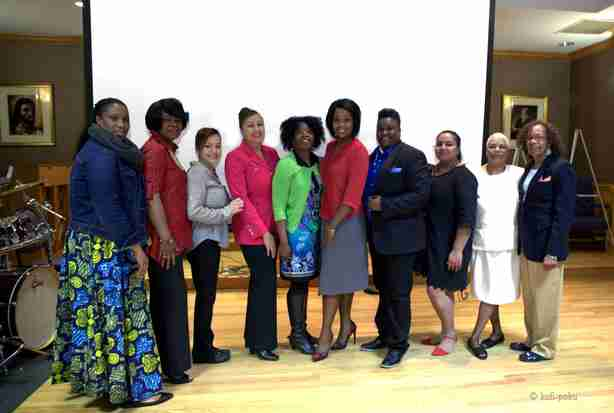
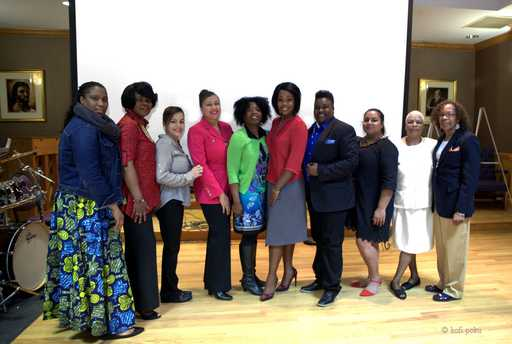
added source tags with large and small resolutions for picutre upload, organized file structure for project

diff --git a/src/public/index.html b/src/public/index.html
@@ -9,7 +9,7 @@
   <!-- FONT -->
   <link href="https://fonts.googleapis.com/css?family=Lato|Raleway" rel="stylesheet">
   <!-- MAIN STYLE -->
-  <link rel="stylesheet" href="css/style.css" >
+  <link rel="stylesheet" href="./../../css/style.css" >
   <!-- DEVICON -->
   <link rel="stylesheet" href="https://cdn.rawgit.com/konpa/devicon/df6431e323547add1b4cf45992913f15286456d3/devicon.min.css">
   <!-- FONT AWESOME/ICONS -->
@@ -27,7 +27,7 @@
    <div class="brandlogo">
     <!-- <img src="images/logo.png" alt="Women of color logo"> -->
       <h1 id="compName">Massachusetts Women of Color Coalition</h1>
-      <img src="images/mawocc.jpeg" alt="Women of color logo">
+      <img src="./../../images/mawocc.jpeg" alt="Women of color logo">
    </div>
 
   </header>
@@ -50,7 +50,9 @@
               <picture>
               <!-- <source media="(max-width: 599px)" srcset="images_src/me-small_small.jpg">
               <source media="(min-width: 600px)" srcset="images_src/me-large_large.jpg"> -->
-              <img src="images/WOC43.jpeg" alt="Women of Color" class="img-responsive" style="width: 100%;height: 100%">
+              <source srcset="./../../images_src/WOC43-small_small.jpeg" media="(max-width: 480px)" style="width: 100%;height: 100%">
+              <source media="(min-width: 481px and max-width:1200px)" srcset="./../../images_src/WOC43-large_large.jpeg>">
+              <img src="./../../images/WOC43.jpeg" alt="Women of Color" class="img-responsive" style="width: 100%;height: 100%">
             </picture>
             <!-- <img src="http://via.placeholder.com/1000x600" style="width: 100%;height: 100%"> -->
           </div>
@@ -59,7 +61,9 @@
               <picture>
               <!-- <source media="(max-width: 599px)" srcset="images_src/me-small_small.jpg">
               <source media="(min-width: 600px)" srcset="images_src/me-large_large.jpg"> -->
-              <img src="images/WOC37.jpeg" alt="Women of Color" class="img-responsive" style="width: 100%;height: 100%">
+              <source srcset="./../../images_src/WOC37-small_small.jpeg" media="(max-width: 480px)">
+              <source media="(min-width: 481px and max-width:1200px)" srcset="./../../images_src/WOC37-large_large.jpeg>">
+              <img src="./../../images/WOC37.jpeg" alt="Women of Color" class="img-responsive" style="width: 100%;height: 100%">
             </picture>
             <!-- <img src="http://via.placeholder.com/1000x600" style="width: 100%;height: 100%"> -->
           </div>
@@ -68,7 +72,9 @@
               <picture>
               <!-- <source media="(max-width: 599px)" srcset="images_src/me-small_small.jpg">
               <source media="(min-width: 600px)" srcset="images_src/me-large_large.jpg"> -->
-              <img src="images/WOC5.jpeg" alt="Women of Color" class="img-responsive" style="width: 100%;height: 100%">
+              <source srcset="./../../images_src/WOC5-small_small.jpeg" media="(max-width: 480px)">
+              <source media="(min-width: 481px and max-width:1200px)" srcset="./../../images_src/WOC5-large_large.jpeg>">
+              <img src="./../../images/WOC5.jpeg" alt="Women of Color" class="img-responsive" style="width: 100%;height: 100%">
             </picture>
             <!-- <img src="http://via.placeholder.com/1000x600" style="width: 100%;height: 100%"> -->
           </div>
@@ -77,7 +83,9 @@
               <picture>
               <!-- <source media="(max-width: 599px)" srcset="images_src/me-small_small.jpg">
               <source media="(min-width: 600px)" srcset="images_src/me-large_large.jpg"> -->
-              <img src="images/WOC78.jpg" alt="Women of Color" class="img-responsive" style="width: 100%;height: 100%">
+              <source srcset="./../../images_src/WOC78-small_small.jpeg" media="(max-width: 480px)">
+              <source media="(min-width: 481px and max-width:1200px)" srcset="./../../images_src/WOC78-large_large.jpeg>">
+              <img src="./../../images/WOC78.jpeg" alt="Women of Color" class="img-responsive" style="width: 100%;height: 100%">
             </picture>
             <!-- <img src="http://via.placeholder.com/1000x600" style="width: 100%;height: 100%"> -->
           </div>
@@ -86,7 +94,9 @@
               <picture>
               <!-- <source media="(max-width: 599px)" srcset="images_src/me-small_small.jpg">
               <source media="(min-width: 600px)" srcset="images_src/me-large_large.jpg"> -->
-              <img src="images/WOC112.jpg" alt="Women of Color" class="img-responsive" style="width: 100%;height: 100%">
+              <source srcset="./../../images_src/WOC112-small_small.jpeg" media="(max-width: 480px)">
+              <source media="(min-width: 481px and max-width:1200px)" srcset="./../../images_src/WOC112-large_large.jpeg>">
+              <img src="./../../images/WOC112.jpeg" alt="Women of Color" class="img-responsive" style="width: 100%;height: 100%">
             </picture>
             <!-- <img src="http://via.placeholder.com/1000x600" style="width: 100%;height: 100%"> -->
           </div>
@@ -109,7 +119,9 @@
                 <picture>
                 <!-- <source media="(max-width: 599px)" srcset="images_src/me-small_small.jpg">
                 <source media="(min-width: 600px)" srcset="images_src/me-large_large.jpg"> -->
-                <img class="img-about" src="images/WOC93.jpg" alt="Women of Color" style="width: 300px;height: 300px;">
+                <source srcset="./../../images_src/WOC93-small_small.jpeg" media="(max-width: 310px)">
+                <source media="(min-width: 481px and max-width:1200px)" srcset="./../../images_src/WOC93-large_large.jpeg>">
+                <img class="img-about" src="./../../images/WOC93.jpg" alt="Women of Color" style="width: 300px;height: 300px;">
               </picture>
               </div>
               <div class="info">
@@ -127,7 +139,9 @@
                 <picture>
                 <!-- <source media="(max-width: 599px)" srcset="images_src/me-small_small.jpg">
                 <source media="(min-width: 600px)" srcset="images_src/me-large_large.jpg"> -->
-                <img class="img-about" src="images/WOC86.jpg" alt="Women of Color" style="width: 300px;height: 300px;">
+                <source srcset="./../../images_src/WOC86-small_small.jpeg" media="(max-width: 310px)">
+                <source media="(min-width: 481px and max-width:1200px)" srcset="./../../images_src/WOC86-large_large.jpeg>">
+                <img class="img-about" src="./../../images/WOC86.jpg" alt="Women of Color" style="width: 300px;height: 300px;">
               </picture>
               </div>
           <div class="border"></div>
@@ -137,7 +151,9 @@
                 <picture>
                 <!-- <source media="(max-width: 599px)" srcset="images_src/me-small_small.jpg">
                 <source media="(min-width: 600px)" srcset="images_src/me-large_large.jpg"> -->
-                <img class="img-about" src="images/WOC100.jpg" alt="Women of Color" style="width: 300px;height: 300px;">
+                <source srcset="./../../images_src/WOC100-small_small.jpeg" media="(max-width: 310px)">
+                <source media="(min-width: 481px and max-width:1200px)" srcset="./../../images_src/WOC100-large_large.jpeg>">
+                <img class="img-about" src="./../../images/WOC100.jpg" alt="Women of Color" style="width: 300px;height: 300px;">
               </picture>
               </div>
               <div class="info">
@@ -296,7 +312,7 @@ Improve health data collection focusing on women of color</li>
   </footer>
 
     <script src="https://code.jquery.com/jquery-3.2.1.min.js" integrity="sha256-hwg4gsxgFZhOsEEamdOYGBf13FyQuiTwlAQgxVSNgt4=" crossorigin="anonymous"></script>
-    <script src="script.js"></script>
+    <script src="./../../script.js"></script>
     <script src="https://maxcdn.bootstrapcdn.com/bootstrap/3.3.7/js/bootstrap.min.js"></script>
   </body>
 </html>

diff --git a/src/public/events.html b/src/public/events.html
@@ -9,9 +9,8 @@
   <!-- FONT -->
   <link href="https://fonts.googleapis.com/css?family=Lato|Raleway" rel="stylesheet">
   <!-- MAIN STYLE -->
-  <link rel="stylesheet" href="css/style.css" >
-  <link rel="stylesheet" href="css/styleshistory.css" >
-  <link rel="stylesheet" href="css/contact.css" >
+  <link rel="stylesheet" href="../css/style.css" >
+  <link rel="stylesheet" href="../css/styleshistory.css" >
   <!-- DEVICON -->
   <link rel="stylesheet" href="https://cdn.rawgit.com/konpa/devicon/df6431e323547add1b4cf45992913f15286456d3/devicon.min.css">
   <!-- FONT AWESOME/ICONS -->
@@ -38,9 +37,9 @@
         <ul>
           <li><a href="index.html">Home</a></li>
           <li><a href="history.html">About Us</a></li>
-          <li><a href="events.html">Events</a></li>
+          <li class="activeli"><a href="events.html">Events</a></li>
           <!-- <li><a href="#">Donate</a></li> -->
-          <li class="activeli"><a href="contact.html">Contact</a></li>
+          <li><a href="contact.html">Contact</a></li>
           <li class="icon"><a href="javascript:void(0);" class="icon" onclick="navFunction()">&#9776;</a></li>
         </ul>
     </nav>
@@ -53,33 +52,26 @@
           <span class="dot" onclick="currentSlide(2)"></span>
           <span class="dot" onclick="currentSlide(3)"></span>
         </div> -->
-        <div class="container-contact">  
-        <form id="contact" action="" method="post">
-          <h3>Contact Form</h3>
-          <h4>Contact us for more information @ MassachusettsWOCC@gmail.com</h4>
-          <p>Please note that this contact form is still under contruction and we recommend that you email MassachusettsWOCC@gmail.com directly if you have any issues.</p>
-          <br>
-          <fieldset>
-            <input placeholder="Your name" type="text" tabindex="1" required autofocus>
-          </fieldset>
-          <fieldset>
-            <input placeholder="Your Email Address" type="email" tabindex="2" required>
-          </fieldset>
-          <fieldset>
-            <input placeholder="Your Phone Number" type="tel" tabindex="3" required>
-          </fieldset>
-          <fieldset>
-            <input placeholder="Your Web Site" type="url" tabindex="4" required>
-          </fieldset>
-          <fieldset>
-            <textarea placeholder="Type your message here...." tabindex="5" required></textarea>
-          </fieldset>
-          <fieldset>
-            <button name="submit" type="submit" id="contact-submit" data-submit="...Sending">Submit</button>
-          </fieldset>
-          <p class="copyright">Designed by <a href="https://colorlib.com" target="_blank" title="Colorlib">Colorlib</a></p>
-        </form>
+  <div class="container-main">
+    <section class="content2">
+    <!-- BULLET POINTS -->
+      <div class="featured2">
+          <h1>Connect With Us</h1>
+      </div>
+    <!--   <svg id="border3bttm" width="100%" height="100" viewBox="0 0 5.5 10" preserveAspectRatio="none">
+            <path d="M0 0 L50 90 L100 0 V100 H0" fill="#9E3199" />
+      </svg> -->
+      <div class="work2">
+        <blockquote class="embedly-card"><h4><a href="https://www.meetup.com/MAWOCC/">Massachusetts Women of Color Coalition (MAWOCC)</a></h4><p>Mission Statement: Massachusetts Women of Color Coalition is dedicated to eradicating the racial inequities among women of color created by structural, institutional, interpersonal, and internalized r</p></blockquote>
+        <iframe  class="fb-feed" src="https://www.facebook.com/plugins/page.php?href=https%3A%2F%2Fwww.facebook.com%2Fmawocc%2F%3Fref%3Dbr_rs&tabs=timeline&width=500&height=500&small_header=true&adapt_container_width=true&hide_cover=true&show_facepile=false&appId" width="500" height="449" style="border:none;overflow:hidden" scrolling="no" frameborder="0" allowTransparency="true"></iframe>
+        <iframe class="fb-feed2" src="https://www.facebook.com/plugins/page.php?href=https%3A%2F%2Fwww.facebook.com%2Fmawocc%2F%3Fref%3Dbr_rs&tabs=timeline&width=340&height=500&small_header=false&adapt_container_width=true&hide_cover=false&show_facepile=true&appId" width="340" height="500" style="border:none;overflow:hidden" scrolling="no" frameborder="0" allowTransparency="true"></iframe>
+        <script async src="https://cdn.embedly.com/widgets/platform.js" charset="UTF-8"></script>
+      </div>
+    </section>
 </div>
+      <div class="socialMedia">
+      </div>
+  </div>
 
 
 <!-- ICONS/SOCIAL MEDIA -->
@@ -92,7 +84,7 @@
   </footer>
 
     <script src="https://code.jquery.com/jquery-3.2.1.min.js" integrity="sha256-hwg4gsxgFZhOsEEamdOYGBf13FyQuiTwlAQgxVSNgt4=" crossorigin="anonymous"></script>
-    <script src="script.js"></script>
+    <script src="../script.js"></script>
     <script src="https://maxcdn.bootstrapcdn.com/bootstrap/3.3.7/js/bootstrap.min.js"></script>
   </body>
 </html>

diff --git a/src/public/contact.html b/src/public/contact.html
@@ -11,6 +11,7 @@
   <!-- MAIN STYLE -->
   <link rel="stylesheet" href="css/style.css" >
   <link rel="stylesheet" href="css/styleshistory.css" >
+  <link rel="stylesheet" href="css/contact.css" >
   <!-- DEVICON -->
   <link rel="stylesheet" href="https://cdn.rawgit.com/konpa/devicon/df6431e323547add1b4cf45992913f15286456d3/devicon.min.css">
   <!-- FONT AWESOME/ICONS -->
@@ -37,9 +38,9 @@
         <ul>
           <li><a href="index.html">Home</a></li>
           <li><a href="history.html">About Us</a></li>
-          <li class="activeli"><a href="events.html">Events</a></li>
+          <li><a href="events.html">Events</a></li>
           <!-- <li><a href="#">Donate</a></li> -->
-          <li><a href="contact.html">Contact</a></li>
+          <li class="activeli"><a href="contact.html">Contact</a></li>
           <li class="icon"><a href="javascript:void(0);" class="icon" onclick="navFunction()">&#9776;</a></li>
         </ul>
     </nav>
@@ -52,26 +53,33 @@
           <span class="dot" onclick="currentSlide(2)"></span>
           <span class="dot" onclick="currentSlide(3)"></span>
         </div> -->
-  <div class="container-main">
-    <section class="content2">
-    <!-- BULLET POINTS -->
-      <div class="featured2">
-          <h1>Connect With Us</h1>
-      </div>
-    <!--   <svg id="border3bttm" width="100%" height="100" viewBox="0 0 5.5 10" preserveAspectRatio="none">
-            <path d="M0 0 L50 90 L100 0 V100 H0" fill="#9E3199" />
-      </svg> -->
-      <div class="work2">
-        <blockquote class="embedly-card"><h4><a href="https://www.meetup.com/MAWOCC/">Massachusetts Women of Color Coalition (MAWOCC)</a></h4><p>Mission Statement: Massachusetts Women of Color Coalition is dedicated to eradicating the racial inequities among women of color created by structural, institutional, interpersonal, and internalized r</p></blockquote>
-        <iframe  class="fb-feed" src="https://www.facebook.com/plugins/page.php?href=https%3A%2F%2Fwww.facebook.com%2Fmawocc%2F%3Fref%3Dbr_rs&tabs=timeline&width=500&height=500&small_header=true&adapt_container_width=true&hide_cover=true&show_facepile=false&appId" width="500" height="449" style="border:none;overflow:hidden" scrolling="no" frameborder="0" allowTransparency="true"></iframe>
-        <iframe class="fb-feed2" src="https://www.facebook.com/plugins/page.php?href=https%3A%2F%2Fwww.facebook.com%2Fmawocc%2F%3Fref%3Dbr_rs&tabs=timeline&width=340&height=500&small_header=false&adapt_container_width=true&hide_cover=false&show_facepile=true&appId" width="340" height="500" style="border:none;overflow:hidden" scrolling="no" frameborder="0" allowTransparency="true"></iframe>
-        <script async src="https://cdn.embedly.com/widgets/platform.js" charset="UTF-8"></script>
-      </div>
-    </section>
+        <div class="container-contact">  
+        <form id="contact" action="" method="post">
+          <h3>Contact Form</h3>
+          <h4>Contact us for more information @ MassachusettsWOCC@gmail.com</h4>
+          <p>Please note that this contact form is still under contruction and we recommend that you email MassachusettsWOCC@gmail.com directly if you have any issues.</p>
+          <br>
+          <fieldset>
+            <input placeholder="Your name" type="text" tabindex="1" required autofocus>
+          </fieldset>
+          <fieldset>
+            <input placeholder="Your Email Address" type="email" tabindex="2" required>
+          </fieldset>
+          <fieldset>
+            <input placeholder="Your Phone Number" type="tel" tabindex="3" required>
+          </fieldset>
+          <fieldset>
+            <input placeholder="Your Web Site" type="url" tabindex="4" required>
+          </fieldset>
+          <fieldset>
+            <textarea placeholder="Type your message here...." tabindex="5" required></textarea>
+          </fieldset>
+          <fieldset>
+            <button name="submit" type="submit" id="contact-submit" data-submit="...Sending">Submit</button>
+          </fieldset>
+          <p class="copyright">Designed by <a href="https://colorlib.com" target="_blank" title="Colorlib">Colorlib</a></p>
+        </form>
 </div>
-      <div class="socialMedia">
-      </div>
-  </div>
 
 
 <!-- ICONS/SOCIAL MEDIA -->
@@ -84,7 +92,7 @@
   </footer>
 
     <script src="https://code.jquery.com/jquery-3.2.1.min.js" integrity="sha256-hwg4gsxgFZhOsEEamdOYGBf13FyQuiTwlAQgxVSNgt4=" crossorigin="anonymous"></script>
-    <script src="script.js"></script>
+    <script src="../script.js"></script>
     <script src="https://maxcdn.bootstrapcdn.com/bootstrap/3.3.7/js/bootstrap.min.js"></script>
   </body>
 </html>

diff --git a/src/public/history.html b/src/public/history.html
@@ -9,8 +9,8 @@
   <!-- FONT -->
   <link href="https://fonts.googleapis.com/css?family=Lato|Raleway" rel="stylesheet">
   <!-- MAIN STYLE -->
-  <link rel="stylesheet" href="css/style.css" >
-  <link rel="stylesheet" href="css/styleshistory.css" >
+  <link rel="stylesheet" href="../css/style.css" >
+  <link rel="stylesheet" href="../css/styleshistory.css" >
   <!-- DEVICON -->
   <link rel="stylesheet" href="https://cdn.rawgit.com/konpa/devicon/df6431e323547add1b4cf45992913f15286456d3/devicon.min.css">
   <!-- FONT AWESOME/ICONS -->
@@ -124,7 +124,7 @@
   </footer>
 
     <script src="https://code.jquery.com/jquery-3.2.1.min.js" integrity="sha256-hwg4gsxgFZhOsEEamdOYGBf13FyQuiTwlAQgxVSNgt4=" crossorigin="anonymous"></script>
-    <script src="script.js"></script>
+    <script src="../script.js"></script>
     <script src="https://maxcdn.bootstrapcdn.com/bootstrap/3.3.7/js/bootstrap.min.js"></script>
   </body>
 </html>

diff --git a/src/public/home.html b/src/public/home.html
@@ -9,7 +9,7 @@
   <!-- FONT -->
   <link href="https://fonts.googleapis.com/css?family=Lato|Raleway" rel="stylesheet">
   <!-- MAIN STYLE -->
-  <link rel="stylesheet" href="css/style.css" >
+  <link rel="stylesheet" href="../css/style.css" >
   <!-- DEVICON -->
   <link rel="stylesheet" href="https://cdn.rawgit.com/konpa/devicon/df6431e323547add1b4cf45992913f15286456d3/devicon.min.css">
   <!-- FONT AWESOME/ICONS -->
@@ -148,6 +148,6 @@
   </footer>
 
 
-    <script src="script.js"></script>
+    <script src="../script.js"></script>
   </body>
 </html>

diff --git a/css/style.css b/css/style.css
@@ -775,3 +775,24 @@ input[type=submit]:hover {
   }
 }
 
+
+@media screen and (min-width: 1100px){
+	.slideshow-container{
+		height: 550px;
+	}
+}
+@media screen and (min-width: 1500px){
+	.slideshow-container{
+		height: 500px;
+	}
+}
+@media screen and (min-width: 1700px){
+	.slideshow-container{
+		height: 900px;
+	}
+}
+@media screen and (min-width: 1800px){
+	.slideshow-container{
+		height: auto;
+	}
+}

diff --git a/gruntfile.js b/gruntfile.js
@@ -6,9 +6,9 @@ module.exports = function(grunt) {
           engine: 'im',
           sizes: [{
             name: 'small',
-            width: '30%',
+            width: '25%',
             suffix: '_small',
-            quality: 20
+            quality: 50
           },{
             name: 'large',
             width: '50%',
